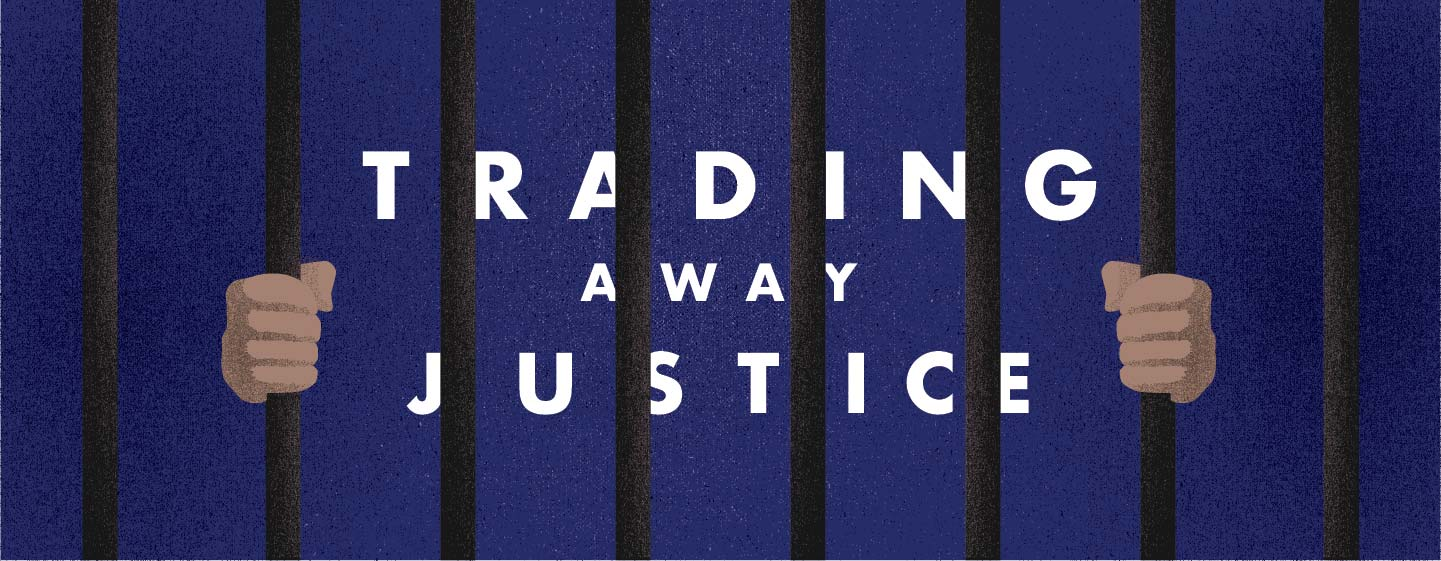
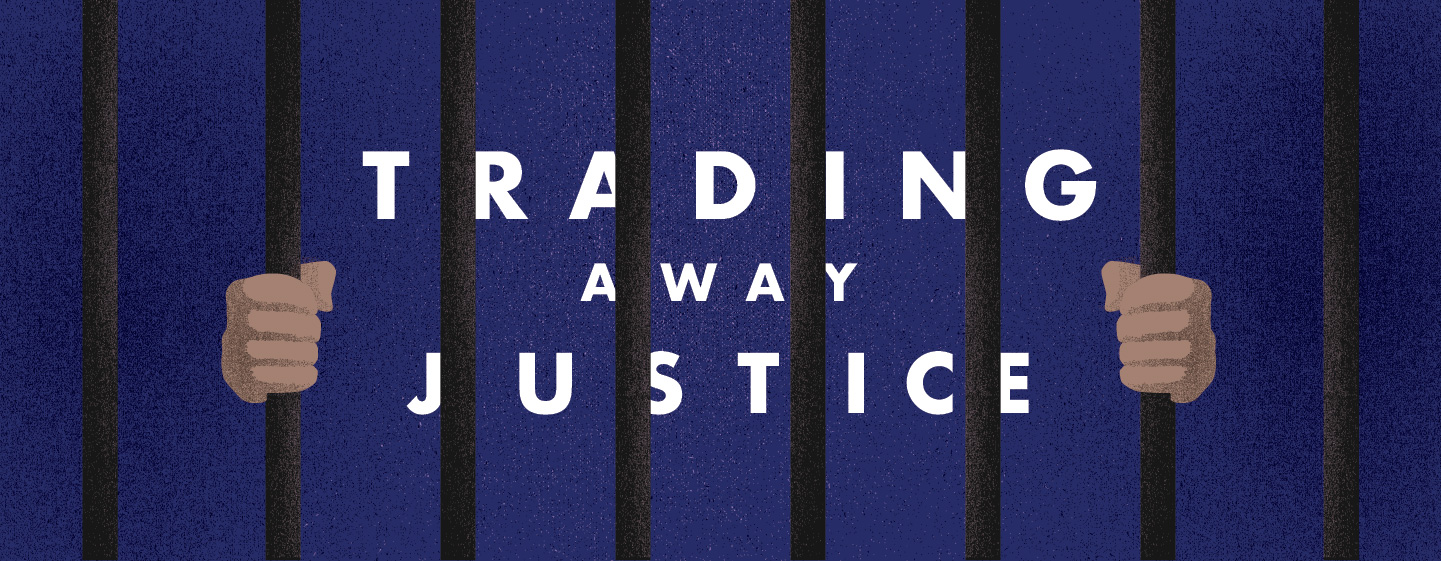
home page responsive adjustments

Changed region(s): [[0.9993, 0.0, 1.0, 1.0]]

diff --git a/css/customstyles.css b/css/customstyles.css
@@ -4,11 +4,12 @@
 body {
   font-size: 20px;
   font-family: 'PT Serif', cursive;
+  color: #181818;
 }
 
 /*navbar styles*/
 .navbar {
-  background-color: #000000;
+  background-color: #181818;
 }
 
 .navbar-brand {
@@ -51,33 +52,32 @@ body {
 }
 
  #sub-block {
-   padding: 40px;
-   background-color: #d1d0db;
-   color: #1c1c1c;
+   padding: 32px;
+   background-color: #181c47;
+   color: #ffffff;
    font-family: 'PT Sans', sans-serif;
    font-size: 24px;
    text-align: center;
- }
-
- #body-block {
-   border: 1px solid #b0afbc;
-   margin-bottom: 50px;
+   margin-top: 50px;
+   font-weight: 700;
+   width: 100%;
  }
 
  /*content block styles*/
 a {
-  color: #000000;
+  color: #181818;
 }
 
 a:hover {
   color: #272c68;
+  text-decoration: none;
 }
 
  .block {
    width: 100%;
    background-color: #ffffff;
-   padding-top: 100px;
-   padding-bottom: 100px;
+   padding-top: 80px;
+   padding-bottom: 80px;
  }
 
  .map {
@@ -101,12 +101,18 @@ a:hover {
   font-weight: 700;
   margin-top: 10px;
   margin-bottom: 10px;
+  line-height: 1em;
+}
+
+.block-lede {
+  font-size: 20px;
 }
 
 .block-more {
   margin-top: 15px;
   font-family: 'PT Sans', sans-serif;
   font-size: 18px;
+  font-weight: 700;
 }
 
 .block-img {
@@ -138,6 +144,7 @@ a:hover {
 
 #check-text {
   color: #e6e7e8;
+  font-size: 20px;
   margin-bottom: 25px;
 }
 
@@ -148,7 +155,7 @@ a:hover {
 
 /*sponsors*/
 #sponsor-box {
-  background-color: #000000;
+  background-color: #181818;
 }
 
 #sponsors {
@@ -228,13 +235,54 @@ a:hover {
 }
 
 /*media queries*/
-@media only screen and (max-width: 1349px) and (min-width: 1200px) {
- }
-
- @media only screen and (max-width: 1199px) and (min-width: 992px) {
+@media only screen and (max-width: 1199px) and (min-width: 992px) {
+   .block {
+     padding-top: 60px;
+     padding-bottom: 60px;
+   }
+   #sub-block {
+     font-size: 22px;
+     padding: 30px;
+   }
+   .block-headline {
+     font-size: 25px;
+   }
+   .block-lede {
+     font-size: 18px;
+   }
+   .block-dateline {
+     font-size: 17px;
+   }
  }
 
  @media only screen and (max-width: 991px) and (min-width: 768px) {
+   .block {
+     padding-top: 50px;
+     padding-bottom: 50px;
+   }
+   #sub-block {
+     font-size: 20px;
+     padding: 20px;
+   }
+   .block-headline {
+     font-size: 23px;
+   }
+   .block-lede {
+     font-size: 16px;
+   }
+   .block-dateline {
+     font-size: 16px;
+   }
+   #check-back {
+     padding-top: 55px;
+     padding-bottom: 55px;
+   }
+   #check-title {
+     font-size: 20px;
+   }
+   #check-text {
+     font-size: 18px;
+   }
  }
 
  @media only screen and (max-width: 767px) {
@@ -253,7 +301,34 @@ a:hover {
      top: 50px;
    }
    .block {
-     padding-top: 50px;
-     padding-bottom: 50px;
+     padding-top: 40px;
+     padding-bottom: 40px;
    }
+    #sub-block {
+      margin-top: 0px;
+      font-size: 18px;
+      padding: 20px;
+    }
+    .block-headline {
+      font-size: 20px;
+    }
+    .block-lede {
+      font-size: 16px;
+    }
+    .block-dateline {
+      font-size: 15px;
+    }
+    .block-more {
+      font-size: 16px;
+      margin-bottom: 25px;
+    }
+    #check-back {
+      padding: 35px;
+    }
+    #check-title {
+      font-size: 19px;
+    }
+    #check-text {
+      font-size: 17px;
+    }
  }

diff --git a/index.html b/index.html
@@ -51,25 +51,25 @@
     </nav><!--end of navbar-->
 
     <div id="hero-container">
-      <img id="hero" src="assets/hero4.jpg">
+      <img id="hero" src="assets/hero5.jpg">
       <img id="hero-mobile" src="assets/hero_mobile.jpg">
     </div>
 
-    <div class="container" id="body-block">
-
-      <div class="row text-container">
-        <div id="sub-block">
-        Why do defendants plead guilty to crimes they didn't commit? A national team of journalists investigates.
-        </div>
+    <div>
+      <div id="sub-block">
+      Why do defendants plead guilty to crimes they didn't commit? <br/>A national team of journalists investigates.
       </div>
+    </div>
+
+    <div class="container">
 
     <a href="chicago.html">
     <div class="block">
       <div class="row text-container">
-        <div class="col-sm-6 col-sm-offset-1 block-text">
+        <div class="col-md-6 col-sm-8 col-md-offset-1 block-text">
           <div class="block-dateline">Chicago</div>
           <div class="block-headline">Headline for Chicago piece goes here</div>
-          <div class="block-lede">Lede for Chicago story goes here. Lede for Chicago story goes here. Lede for Chicago story goes here.</div>
+          <div class="block-lede">Lede for Chicago story goes here. Lede for Chicago story goes here. Lede for Chicago story goes here. Lede for Chicago story goes here.</div>
           <div class="block-more">Read More</div>
         </div>
         <div class="col-sm-4 block-visuals">
@@ -80,16 +80,16 @@
     </a>
 
     <!--dividing line-->
-    <div class="col-sm-10 col-sm-offset-1 line"></div>
+    <div class="col-md-10 col-sm-12 col-md-offset-1 line"></div>
 
     <a href="baltimore.html">
     <div class="block">
       <!--<img class="map" src="assets/maryland.png">-->
       <div class="row text-container">
-        <div class="col-sm-6 col-sm-offset-1 block-text">
+        <div class="col-md-6 col-sm-8 col-md-offset-1 block-text">
           <div class="block-dateline">Baltimore</div>
           <div class="block-headline">Headline for Baltimore piece goes here</div>
-          <div class="block-lede">Lede for Baltimore story goes here. Lede for Baltimore story goes here. Lede for Baltimore story goes here.</div>
+          <div class="block-lede">Lede for Baltimore story goes here. Lede for Baltimore story goes here. Lede for Baltimore story goes here. Lede for Baltimore story goes here.</div>
           <div class="block-more">Read More</div>
         </div>
         <div class="col-sm-4 block-visuals">
@@ -104,7 +104,7 @@
     <!--check back box-->
     <div id="check-back">
       <div class="row text-container">
-        <div class="col-sm-6 col-sm-offset-3 block-text">
+        <div class="col-md-6 col-sm-10 col-md-offset-3 col-sm-offset-1 block-text">
           <div id="check-title">Check Back Soon</div>
           <div id="check-text">Trading Away Justice is an ongoing project investigating the role of plea bargaining in the U.S. justice system. Check back soon for new stories.</div>
           <div id="check-buttons">
